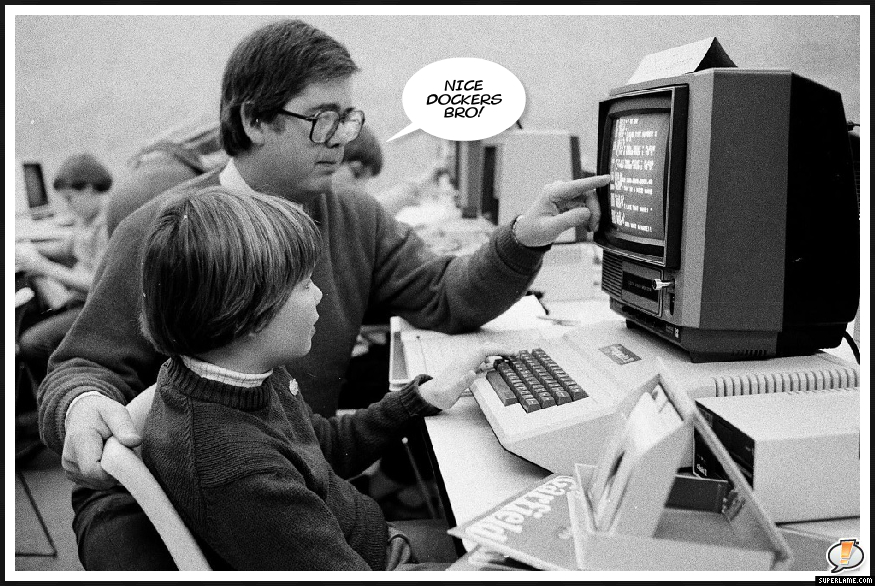
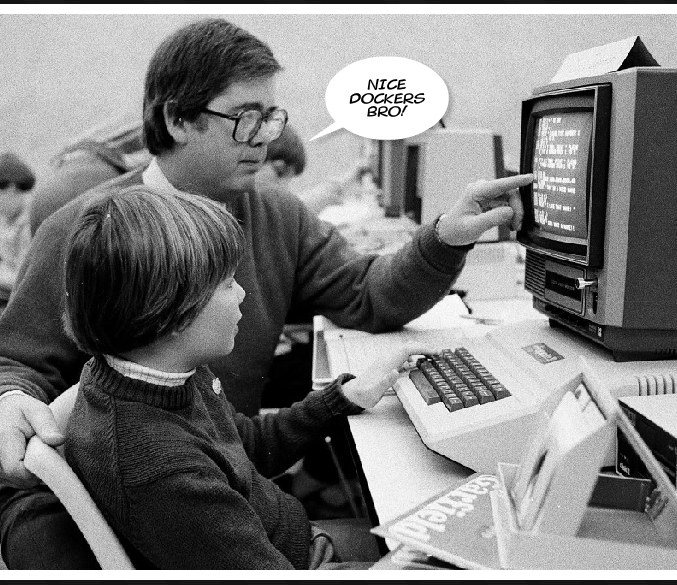
fix image

diff --git a/PITCHME.md b/PITCHME.md
@@ -16,7 +16,7 @@ Anthony Ramirez | Richard Laub
 
 Before | After
 ------ | -----
-![before](assets/dockers-before.jpg =250x) | ![after](assets/dockers-after.jpg =250x)
+![before](assets/dockers-before.jpg) | ![after](assets/dockers-after.jpg)
 
 ## First day of class
 
